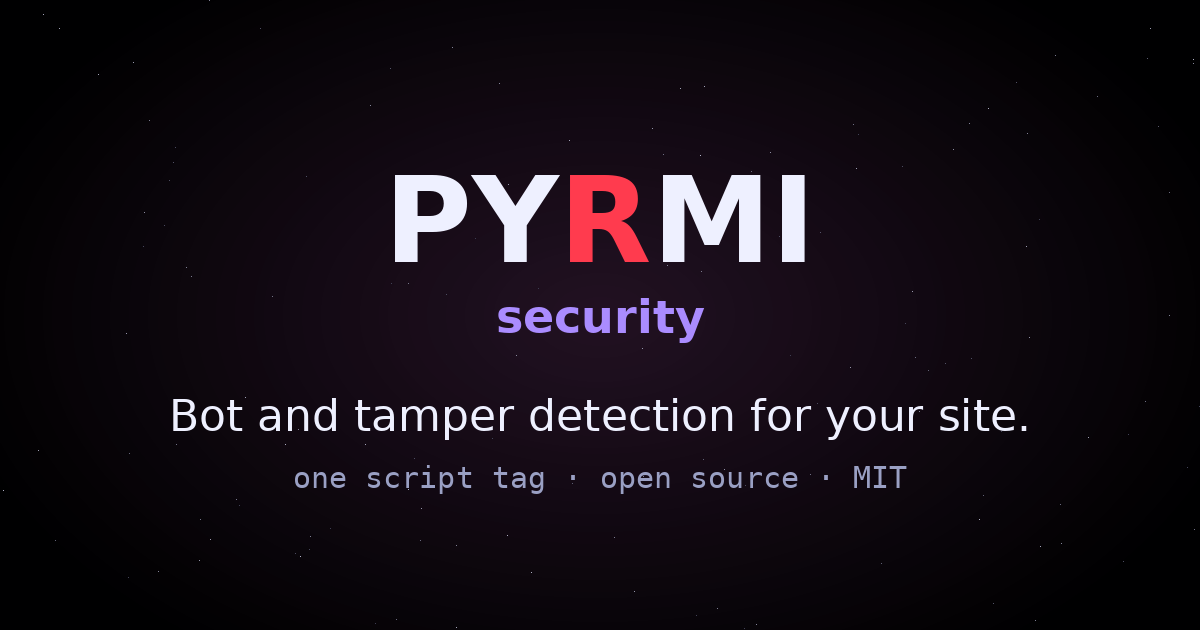
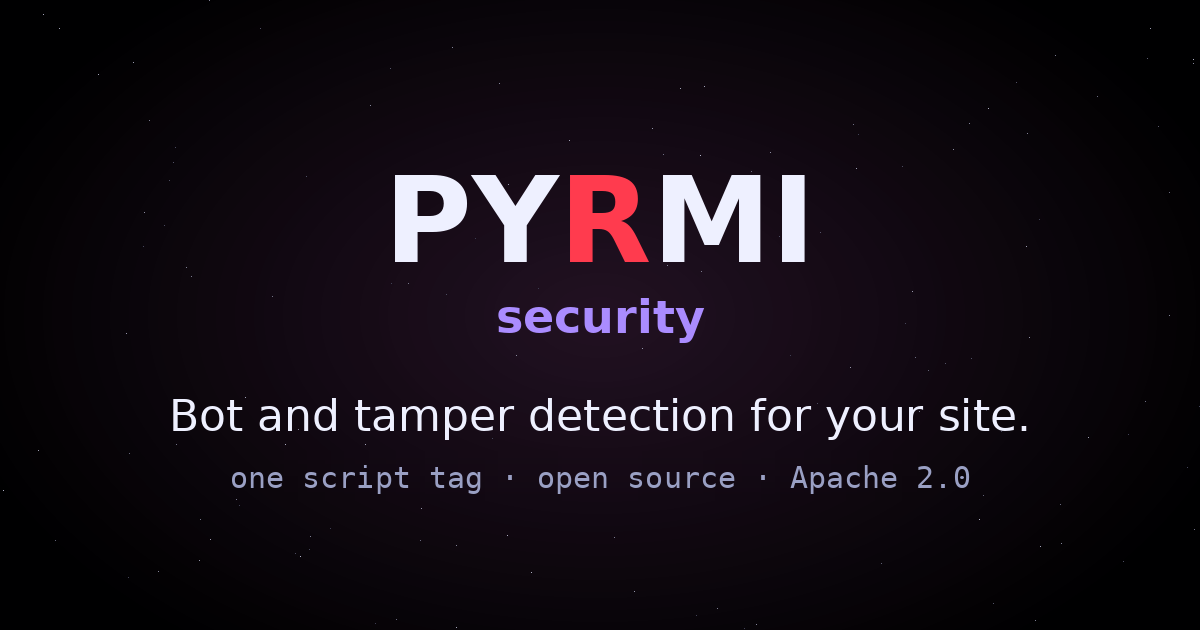
Update the share image to show the Apache 2.0 license
The preview image used when pyrmi.com is shared still listed the old license.
The image URL gets a version query so link previews fetch the new one.

Changed region(s): [[0.185, 0.7238, 0.8017, 0.7841]]

diff --git a/index.html b/index.html
@@ -10,14 +10,14 @@
 <meta property="og:type" content="website">
 <meta property="og:url" content="https://pyrmi.com/">
 <meta property="og:site_name" content="Pyrmi Security">
-<meta property="og:image" content="https://pyrmi.com/og.png">
+<meta property="og:image" content="https://pyrmi.com/og.png?v=2">
 <meta property="og:image:width" content="1200">
 <meta property="og:image:height" content="630">
 <meta property="og:image:alt" content="Pyrmi Security: bot and tamper detection for your site">
 <meta name="twitter:card" content="summary_large_image">
 <meta name="twitter:title" content="Pyrmi Security · bot and tamper detection for your site">
 <meta name="twitter:description" content="One script tag, three lines on your server. Catch bots, scrapers, replayed requests and tampered pages.">
-<meta name="twitter:image" content="https://pyrmi.com/og.png">
+<meta name="twitter:image" content="https://pyrmi.com/og.png?v=2">
 <link rel="canonical" href="https://pyrmi.com/">
 <link rel="icon" href="/favicon.svg" type="image/svg+xml">
 <link rel="icon" href="/favicon.ico" sizes="any">

diff --git a/blog/what-a-browser-cant-prove/index.html b/blog/what-a-browser-cant-prove/index.html
@@ -8,7 +8,7 @@
 <link rel="canonical" href="https://pyrmi.com/blog/what-a-browser-cant-prove/">
 <meta property="og:title" content="What a browser can't prove: building an open-source bot and tamper check">
 <meta property="og:description" content="Why Pyrmi Security treats browser signals as evidence and lets the server decide.">
-<meta property="og:image" content="https://pyrmi.com/og.png">
+<meta property="og:image" content="https://pyrmi.com/og.png?v=2">
 <meta property="og:url" content="https://pyrmi.com/blog/what-a-browser-cant-prove/">
 <meta property="og:type" content="article">
 <link rel="icon" href="/favicon.svg" type="image/svg+xml">
